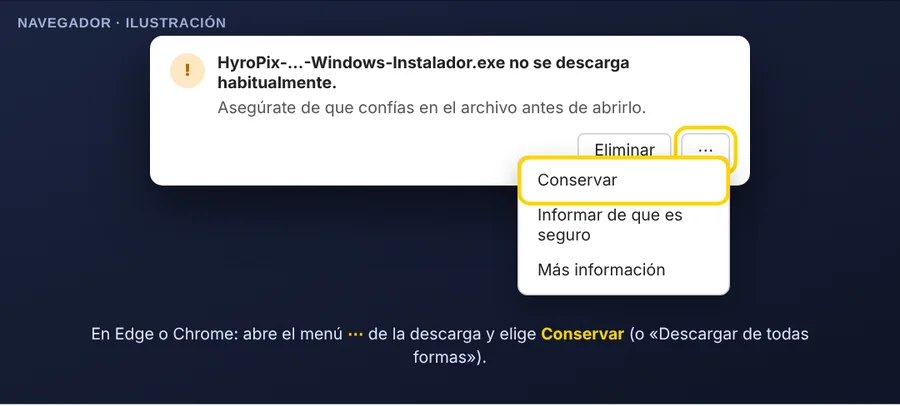
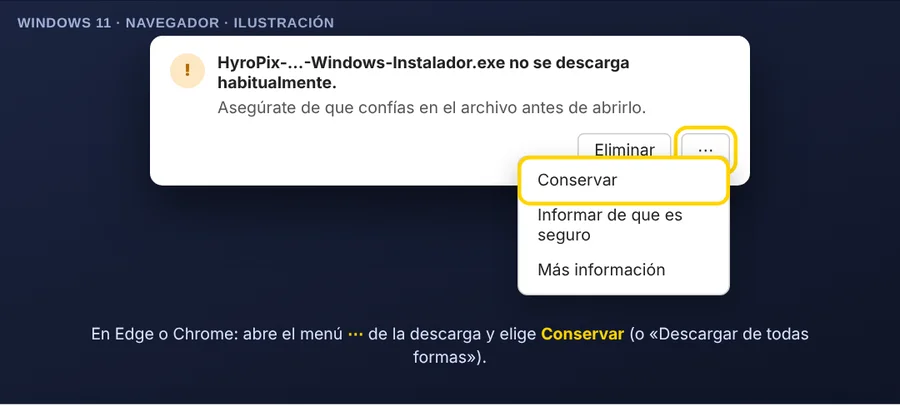
Avisos de seguridad: ilustraciones de Windows 11, aviso pequeño de Amenazas encontradas y explicación del falso positivo (#7)
Claude-Session: https://claude.ai/code/session_01MPG9jTLSc2wDVjhSMCJoa5

Changed region(s): [[0.0, 0.0296, 0.3733, 0.0887]]

diff --git a/public/index.html b/public/index.html
@@ -239,6 +239,9 @@ main{min-height:calc(100vh - 140px)}
 .hp-pasos figure img{display:block;width:100%;height:auto}
 .hp-pasos figcaption{padding:8px 12px;color:var(--tenue);font-size:.88rem;border-top:1px solid var(--borde)}
 .hp-pasos figcaption b{color:#f6f6f8}
+.hp-explica{border:2px solid #ffd400;background:#1a1606;padding:14px 16px;color:var(--tenue);font-size:.95rem}
+.hp-explica>b{display:block;color:#ffd400;margin-bottom:6px;font-size:1.02rem}
+.hp-explica p{margin:0 0 8px}.hp-explica ul{margin:0 0 8px;padding-left:20px}.hp-explica li b,.hp-explica p b{color:#f6f6f8}
 @media (max-width:900px){.hp-seguro .por-que,.hp-pasos{grid-template-columns:1fr}}
 
 /* Guías */
@@ -590,8 +593,8 @@ footer a{color:var(--tenue)}
       </div>
       <p class="nota-version" id="hp-version">Versión actual: HyroPix v1 (1.0.0). La app te avisa sola cuando hay una actualización.</p>
       <div class="hp-seguro" id="hyropix-avisos">
-        <h3>¿Windows o Mac te avisan de un virus? Tranquilo, te explicamos por qué</h3>
-        <p>Al instalar HyroPix por primera vez, Windows o Mac pueden mostrar un aviso de seguridad, e incluso decir que el archivo «puede ser peligroso». <b style="color:#fff">HyroPix no tiene virus.</b> Estos avisos salen con casi cualquier programa nuevo de un estudio pequeño, por estas razones:</p>
+        <h3>¿Windows 11 o Mac te avisan de un virus? Tranquilo, te explicamos por qué</h3>
+        <p>Al instalar HyroPix por primera vez, Windows 11 o Mac pueden mostrar un aviso de seguridad. En Windows puede salir incluso un aviso pequeño en una esquina de abajo que dice «Amenazas encontradas». <b style="color:#fff">HyroPix no tiene virus.</b> Estos avisos salen con casi cualquier programa nuevo de un estudio pequeño, por estas razones:</p>
         <div class="por-que">
           <div><b>Todavía no tiene firma comercial</b>Windows y Apple confían en los programas firmados con un certificado de pago. HyroPix aún no lo tiene, así que lo marcan como de un «editor desconocido» o un «desarrollador no identificado».</div>
           <div><b>Es nuevo y tiene pocas descargas</b>SmartScreen de Windows y algunos antivirus juzgan por fama: un instalador recién publicado no la tiene todavía. A veces lo marcan como amenaza por precaución (un «falso positivo»).</div>
@@ -600,12 +603,18 @@ footer a{color:var(--tenue)}
         <p>Cuando HyroPix tenga su certificado de firma, estos avisos dejarán de salir. Mientras tanto, así se instala sin problemas (las imágenes son ilustraciones de cada aviso):</p>
         <div class="hp-pasos">
           <div>
-            <h4>En Windows</h4>
-          <figure><img src="/descargas/avisos/aviso-w3.webp" alt="Aviso del navegador: el archivo no se descarga habitualmente, con la opción Conservar" width="900" loading="lazy"><figcaption><b>Al descargar.</b> Si Edge o Chrome dicen que el archivo «no se descarga habitualmente», abre el menú ⋯ y elige Conservar.</figcaption></figure>
-          <figure><img src="/descargas/avisos/aviso-w1.webp" alt="Pantalla azul Windows protegió su PC con el enlace Más información" width="900" loading="lazy"><figcaption><b>Paso 1.</b> Al abrir el instalador, si aparece «Windows protegió su PC», pulsa Más información.</figcaption></figure>
-          <figure><img src="/descargas/avisos/aviso-w2.webp" alt="Pantalla azul Windows protegió su PC con el botón Ejecutar de todas formas" width="900" loading="lazy"><figcaption><b>Paso 2.</b> Pulsa Ejecutar de todas formas y sigue el instalador.</figcaption></figure>
-          <figure><img src="/descargas/avisos/aviso-w4.webp" alt="Notificación de Seguridad de Windows: amenazas encontradas" width="900" loading="lazy"><figcaption><b>Si el antivirus lo bloquea.</b> Esta notificación es un falso positivo por ser una app nueva sin firma.</figcaption></figure>
-          <figure><img src="/descargas/avisos/aviso-w5.webp" alt="Seguridad de Windows, historial de protección, Acciones, Restaurar" width="900" loading="lazy"><figcaption><b>Para recuperarlo.</b> Seguridad de Windows → Protección contra virus y amenazas → Historial de protección → Acciones → Restaurar.</figcaption></figure>
+            <h4>En Windows 11</h4>
+          <figure><img src="/descargas/avisos/aviso-w3.webp" alt="Windows 11: aviso del navegador, el archivo no se descarga habitualmente, con la opción Conservar" width="900" loading="lazy"><figcaption><b>1. Al descargar.</b> Si Edge o Chrome dicen que el archivo «no se descarga habitualmente», abre el menú ⋯ de la descarga y elige <b>Conservar</b>.</figcaption></figure>
+          <figure><img src="/descargas/avisos/aviso-w4.webp" alt="Windows 11: aviso pequeño de Seguridad de Windows, Amenazas encontradas, en la esquina inferior" width="900" loading="lazy"><figcaption><b>2. Si sale el aviso pequeño «Amenazas encontradas».</b> Es el antivirus de Windows 11 apartando el instalador por precaución. Más abajo te explicamos por qué pasa.</figcaption></figure>
+          <figure><img src="/descargas/avisos/aviso-w5.webp" alt="Windows 11: Seguridad de Windows, Historial de protección, Acciones, Restaurar" width="900" loading="lazy"><figcaption><b>3. Recupera el instalador.</b> Toca el aviso o abre Seguridad de Windows → Protección antivirus y contra amenazas → Historial de protección → <b>Acciones → Restaurar</b>.</figcaption></figure>
+          <figure><img src="/descargas/avisos/aviso-w1.webp" alt="Windows 11: pantalla azul Windows protegió su PC con el enlace Más información" width="900" loading="lazy"><figcaption><b>4. Abre el instalador.</b> Si aparece «Windows protegió su PC», pulsa <b>Más información</b>.</figcaption></figure>
+          <figure><img src="/descargas/avisos/aviso-w2.webp" alt="Windows 11: pantalla azul con el botón Ejecutar de todas formas" width="900" loading="lazy"><figcaption><b>5.</b> Pulsa <b>Ejecutar de todas formas</b> y sigue el instalador. Esto solo pasa la primera vez.</figcaption></figure>
+            <div class="hp-explica">
+              <b>¿Por qué sale el aviso de «Amenazas encontradas»?</b>
+              <p>El antivirus de Windows 11 (Microsoft Defender) revisa automáticamente cada programa nuevo que descargas. No mira lo que hace el programa por dentro: decide por señales. Con el instalador de HyroPix coinciden tres:</p>
+              <ul><li>Es <b>nuevo</b> y todavía lo han descargado pocas personas.</li><li><b>No tiene firma digital de pago</b>, el «sello» con el que Microsoft reconoce al autor.</li><li>Es un <b>instalador</b>: copia archivos y crea accesos directos, igual que cualquier otro.</li></ul>
+              <p>Con esa mezcla, Windows a veces lo aparta por precaución y muestra ese aviso pequeño. Se llama <b>falso positivo</b> y les pasa a muchos programas nuevos de estudios pequeños. A medida que más gente lo instala, y cuando tengamos la firma digital, Windows deja de avisar.</p>
+            </div>
           </div>
           <div>
             <h4>En Mac</h4>
@@ -637,7 +646,7 @@ footer a{color:var(--tenue)}
             </ul></details>
         </div>
         <div>
-          <h3>Cómo instalarlo en Windows</h3>
+          <h3>Cómo instalarlo en Windows 11</h3>
           <ol>
             <li>Pulsa <b>Descargar para Windows</b>. Si el navegador avisa de que el archivo «no se descarga habitualmente», abre el menú <b>⋯</b> de la descarga y elige <b>Conservar</b> (Edge) o <b>Descargar de todas formas</b> (Chrome).</li>
             <li>Abre el archivo <b>HyroPix-…-Windows-Instalador.exe</b>.</li>
